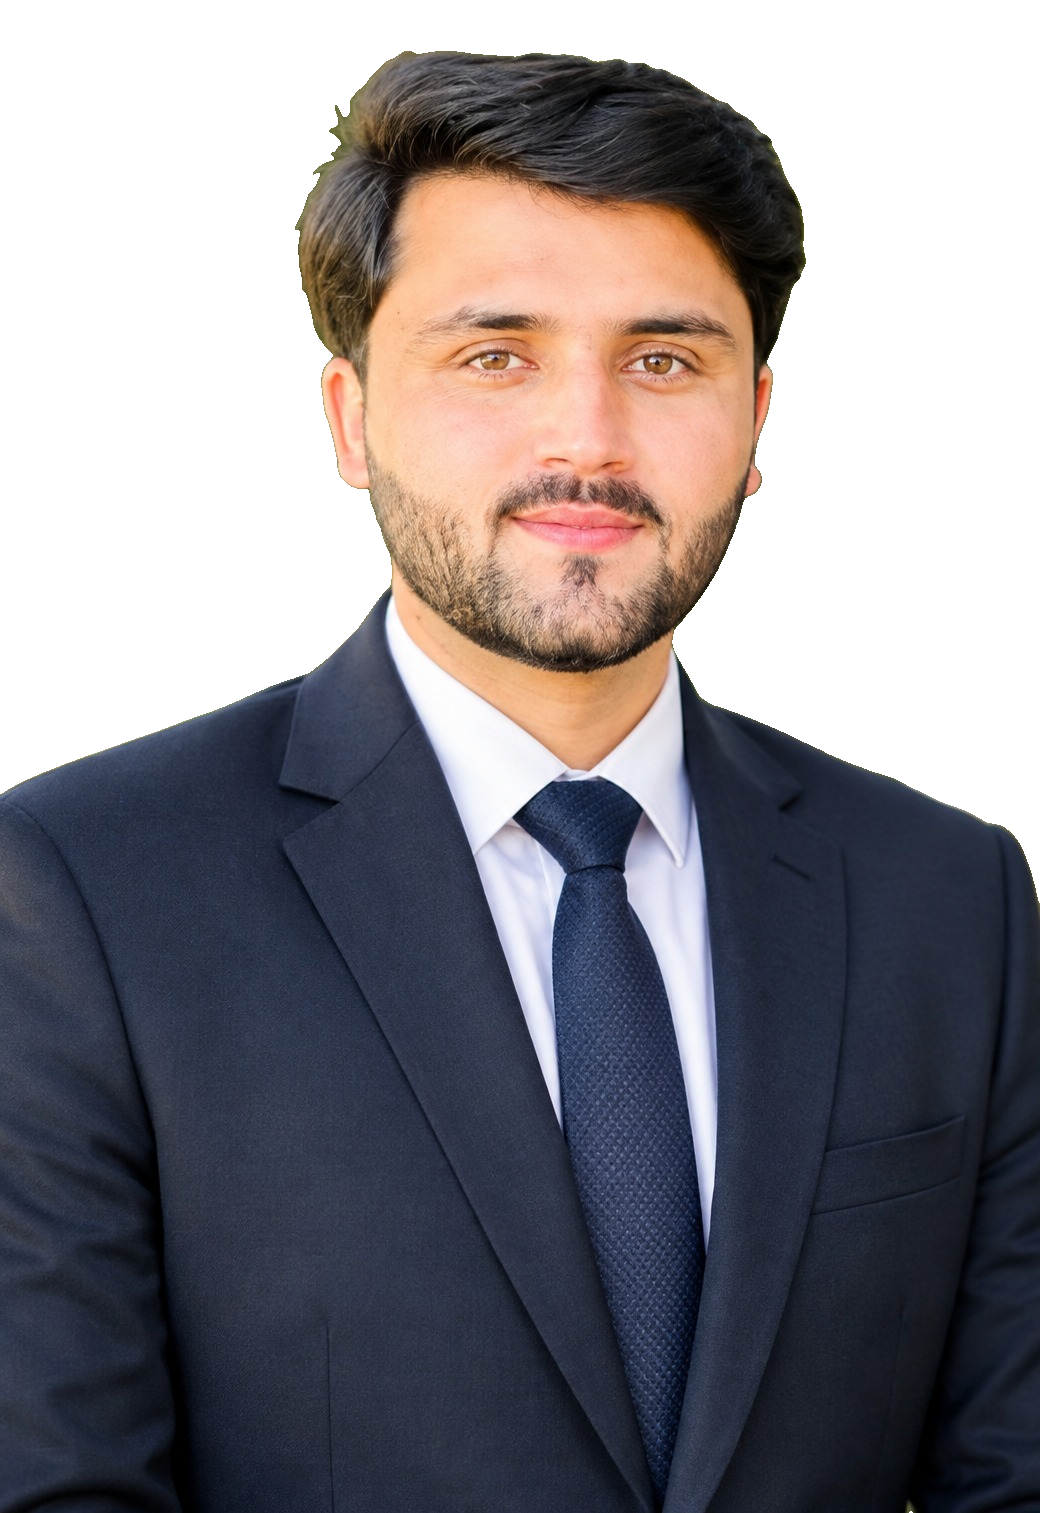
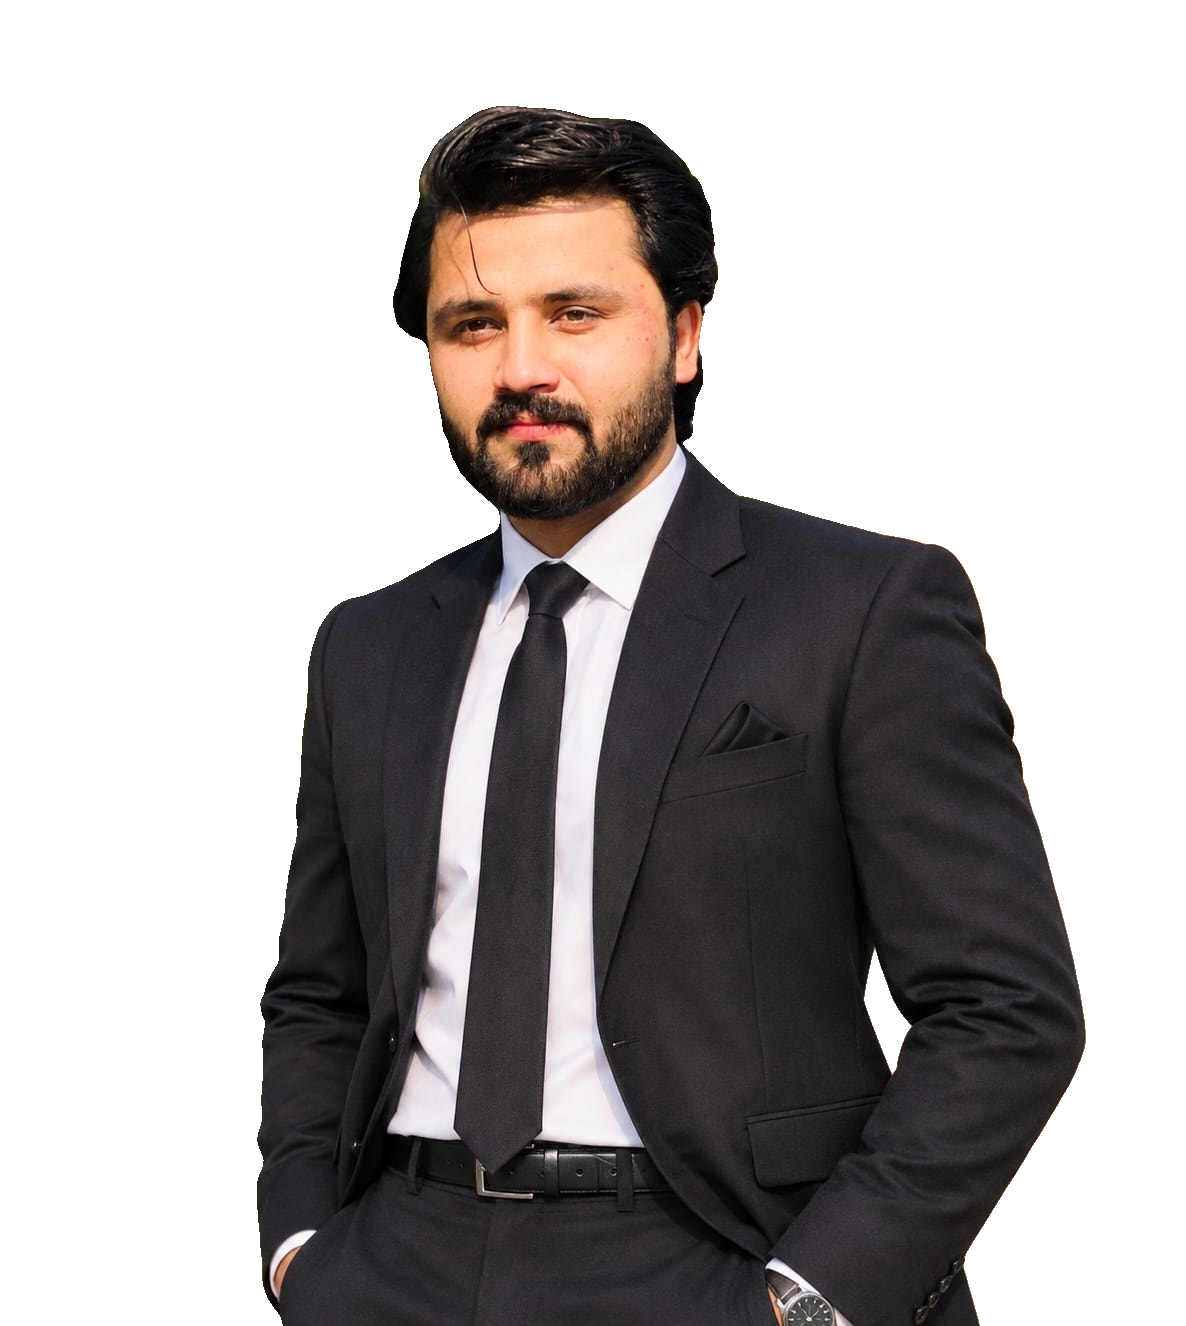
feat: new photo for Mian Faizyab
- New waist-up photo, with cut-out, dither layers and backdrop regenerated.
- Per-member framing (scale/offset) so his figure reads at the same size as
  the other four; the old downward offset is no longer needed.

diff --git a/src/components/sections/TeamCards.tsx b/src/components/sections/TeamCards.tsx
@@ -19,9 +19,19 @@ export type CardMember = {
   /** Blurred, darkened backdrop made from the photo at build time (pnpm dither). */
   backdrop: string;
   cutout: boolean;
-  /** Moves the person down (% of their height) when the photo frames them higher. */
-  figureOffset?: number;
+  /**
+   * Per-photo framing so all five read at the same size: `y` moves the person down
+   * (% of their height), `scale` zooms in from the head for wider shots.
+   */
+  framing?: { y?: number; scale?: number };
 };
+
+/** Inline framing for a member's figure (CSS `translate`/`scale`, separate from GSAP's transform). */
+const framing = (member: CardMember): React.CSSProperties => ({
+  translate: `0 ${member.framing?.y ?? 0}%`,
+  scale: member.framing?.scale ?? 1,
+  transformOrigin: "50% 15%",
+});
 
 /**
  * One card's scroll motion. Arrival: the card slides up natively and its contents settle
@@ -204,9 +214,9 @@ export function TeamCards({
                   className="dither-portrait absolute inset-0"
                   style={
                     member.cutout
-                      ? { translate: `0 ${member.figureOffset ?? 0}%` }
+                      ? framing(member)
                       : {
-                          translate: `0 ${member.figureOffset ?? 0}%`,
+                          ...framing(member),
                           maskImage:
                             "radial-gradient(70% 80% at 50% 45%, black 55%, transparent 100%)",
                         }

diff --git a/src/components/sections/TeamSection.tsx b/src/components/sections/TeamSection.tsx
@@ -5,8 +5,8 @@ import { TeamCards, type CardMember } from "@/components/sections/TeamCards";
 import { site } from "@/content/site";
 import { team } from "@/content/team";
 
-/** Photos that frame the person higher than the others (Mustafa 2026-10-08). */
-const FIGURE_OFFSET: Record<string, number> = { "mian-faizyab": 9 };
+/** Photos framed differently from the rest (Mustafa 2026-10-14: new waist-up shot of Faizyab). */
+const FRAMING: Record<string, CardMember["framing"]> = { "mian-faizyab": { scale: 1.28 } };
 
 /** Build-time portrait assets (scripts/cutout-portraits.py, scripts/dither-portraits.mjs). */
 const hasPublicFile = (src: string) => existsSync(join(process.cwd(), "public", src));
@@ -34,7 +34,7 @@ export function TeamSection() {
             name: member.name,
             role: member.role,
             ...cardAssets(member.slug, member.portrait.src),
-            figureOffset: FIGURE_OFFSET[member.slug],
+            framing: FRAMING[member.slug],
           },
         ]
       : [],
